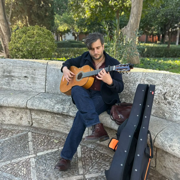
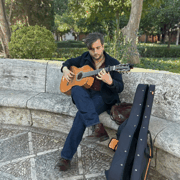
009: content truth, metadata guardrails, toolchain polish (#14)
- JSON-LD truth: analyzer is Python-only; Improspira node scoped to the
  workshop prototype so contributor credit matches the page copy; MIT
  Professional Education added to alumniOf
- Improv-partner limitations now disclose the private benchmark harness
- 404 pages: internal-nav glyph (<- not external arrow) + self-hosted Inter
- New src/content/metadata.test.ts pins canonical/sitemap/robots/og URLs to
  one origin and asserts referenced static assets exist (5 tests)
- CI e2e step uses npx playwright test (kills the double build); eslint now
  covers all .ts repo-wide plus root JS configs; sitemap drops stale lastmod
- PWA icons palette-quantized: 500KB -> 187KB (512), 79 -> 32, 70 -> 28

Gates: typecheck, lint, vitest 14, build, e2e 14. All green.

diff --git a/src/content/metadata.test.ts b/src/content/metadata.test.ts
@@ -1,0 +1,87 @@
+import { existsSync, readFileSync } from "node:fs";
+import { join } from "node:path";
+
+import { describe, expect, it } from "vitest";
+
+/**
+ * Spec 006 retargeted every crawler-facing URL to the research subdomain,
+ * but nothing enforced it: the origin string is duplicated across
+ * index.html (~20 occurrences), public/sitemap.xml, and public/robots.txt.
+ * These tests pin all of them to one canonical origin and verify every
+ * static asset the shell references actually ships in public/ — a future
+ * origin edit or asset rename that forgets a copy fails the suite instead
+ * of silently publishing divergent metadata.
+ */
+
+const root = join(__dirname, "..", "..");
+const indexHtml = readFileSync(join(root, "index.html"), "utf8");
+const robotsTxt = readFileSync(join(root, "public", "robots.txt"), "utf8");
+const sitemapXml = readFileSync(join(root, "public", "sitemap.xml"), "utf8");
+const manifest = JSON.parse(
+  readFileSync(join(root, "public", "site.webmanifest"), "utf8"),
+) as { icons?: Array<{ src: string }> };
+
+const ORIGIN = "https://research.zachscheffler.com";
+
+function attributeValues(html: string, pattern: RegExp): string[] {
+  return [...html.matchAll(pattern)]
+    .map((match) => match[1])
+    .filter((value): value is string => typeof value === "string");
+}
+
+describe("canonical origin consistency", () => {
+  it("the canonical link, sitemap loc, and robots Sitemap line share one origin", () => {
+    expect(indexHtml).toContain(`<link rel="canonical" href="${ORIGIN}/" />`);
+    expect(sitemapXml).toContain(`<loc>${ORIGIN}/</loc>`);
+    expect(robotsTxt).toContain(`Sitemap: ${ORIGIN}/sitemap.xml`);
+  });
+
+  it("og:url, og:image, and twitter:image all use the canonical origin", () => {
+    const urls = [
+      ...attributeValues(indexHtml, /property="og:url"\s+content="([^"]+)"/g),
+      ...attributeValues(indexHtml, /property="og:image"\s*content="([^"]+)"/g),
+      ...attributeValues(indexHtml, /name="twitter:image"\s*content="([^"]+)"/g),
+    ];
+
+    expect(urls.length).toBeGreaterThanOrEqual(3);
+    for (const url of urls) {
+      expect(url.startsWith(`${ORIGIN}/`)).toBe(true);
+    }
+  });
+
+  it("every absolute URL in the JSON-LD graph that points at the dossier uses the canonical origin", () => {
+    const jsonLd = indexHtml.match(/<script type="application\/ld\+json">([\s\S]*?)<\/script>/)?.[1];
+    expect(jsonLd).toBeTruthy();
+
+    const selfUrls = [...jsonLd!.matchAll(/"(?:@id|url)":\s*"(https:\/\/[^"]+)"/g)]
+      .map((match) => match[1])
+      .filter((url): url is string => typeof url === "string")
+      .filter((url) => !url.includes("github") && !url.includes("linkedin") && !url.includes("upf.edu"));
+
+    expect(selfUrls.length).toBeGreaterThanOrEqual(3);
+    for (const url of selfUrls) {
+      expect(url.startsWith(ORIGIN)).toBe(true);
+    }
+  });
+});
+
+describe("referenced static assets exist in public/", () => {
+  it("index.html root-relative link/script assets ship in public/", () => {
+    const hrefs = attributeValues(indexHtml, /(?:href|src)="(\/[^"]+)"/g).filter(
+      (href) => !href.startsWith("/src/"),
+    );
+
+    expect(hrefs.length).toBeGreaterThanOrEqual(4);
+    for (const href of hrefs) {
+      expect(existsSync(join(root, "public", href)), `missing public${href}`).toBe(true);
+    }
+  });
+
+  it("site.webmanifest icons ship in public/", () => {
+    const icons = manifest.icons ?? [];
+    expect(icons.length).toBeGreaterThanOrEqual(2);
+    for (const icon of icons) {
+      expect(existsSync(join(root, "public", icon.src)), `missing public${icon.src}`).toBe(true);
+    }
+  });
+});

diff --git a/index.html b/index.html
@@ -92,6 +92,10 @@
               {
                 "@type": "CollegeOrUniversity",
                 "name": "Grinnell College"
+              },
+              {
+                "@type": "EducationalOrganization",
+                "name": "MIT Professional Education"
               }
             ],
             "knowsAbout": [
@@ -125,7 +129,7 @@
             "name": "Session State Analyzer",
             "description": "A provenance-aware canonical model that consumes DAW adapter evidence bundles and represents production state as an interpretable graph.",
             "codeRepository": "https://github.com/ColonelKernel/session-state-analyzer",
-            "programmingLanguage": ["Python", "TypeScript"],
+            "programmingLanguage": ["Python"],
             "author": {
               "@id": "https://research.zachscheffler.com/#person"
             },
@@ -156,7 +160,7 @@
             "@type": "CreativeWork",
             "@id": "https://research.zachscheffler.com/#improspira",
             "name": "Improspira / Improv Partner",
-            "description": "A collaborative generative-harmony prototype from the MTG Generative Music AI Workshop and its subsequent research continuation.",
+            "description": "A five-day collaborative generative-harmony prototype from the MTG Generative Music AI Workshop. Its subsequent research continuation is developed independently and described on this page.",
             "contributor": [
               {
                 "@id": "https://research.zachscheffler.com/#person"

diff --git a/public/404.html b/public/404.html
@@ -7,6 +7,16 @@
     <meta name="robots" content="noindex, follow" />
     <title>Page not found — Zach Scheffler Research</title>
     <style>
+      /* Same self-hosted variable font the main site preloads, so the 404's
+         fine-grained weights (750/800) render identically off the SPA. */
+      @font-face {
+        font-family: Inter;
+        font-style: normal;
+        font-weight: 100 900;
+        font-display: swap;
+        src: url("/fonts/InterVariable.woff2") format("woff2");
+      }
+
       :root {
         color-scheme: dark;
         --paper: #f2f1eb;
@@ -125,7 +135,8 @@
         The requested route belonged to an earlier version of the site. The current dossier focuses on
         DAW state, intelligent music production, and human–AI performance systems.
       </p>
-      <a class="button" href="/">Return home to the research dossier <span aria-hidden="true">↗</span></a>
+      <!-- Internal link: the site reserves ↗ for external destinations. -->
+      <a class="button" href="/">Return home to the research dossier <span aria-hidden="true">←</span></a>
     </main>
   </body>
 </html>

diff --git a/src/content/research.ts b/src/content/research.ts
@@ -321,6 +321,7 @@ export const caseStudies: ResearchCaseStudy[] = [
       "Real-instrument evaluation, studies with musicians, and end-to-end Ableton Live runtime validation remain pending.",
       "The current evaluation concerns symbolic transitions and synthesized acceptance, not reactive listening to a live performer.",
       "Workshop materials describe inconsistent dataset provenance and chord-vocabulary counts, so those details are not presented as validated findings here.",
+      "The benchmark harness and held-out results are not yet published in a public repository, so the figures above cannot currently be independently verified.",
     ],
     nextStep:
       "Evaluate latency, controllability, and perceived usefulness with live instruments and musicians, while comparing interpretable baselines with learned alternatives.",

diff --git a/eslint.config.js b/eslint.config.js
@@ -35,7 +35,21 @@ export default tseslint.config(
   },
   {
     extends: [js.configs.recommended, ...tseslint.configs.recommended],
-    files: ["*.config.ts", "tests/**/*.ts"],
+    // Catch-all for TS outside src/ (configs, tests, future scripts) so a
+    // new file can't silently escape linting; src/ keeps its own block with
+    // browser globals and the React plugins.
+    files: ["**/*.ts"],
+    ignores: ["src/**"],
+    languageOptions: {
+      ecmaVersion: 2022,
+      globals: globals.node,
+    },
+  },
+  {
+    // Root JS/CJS config files previously matched no block and were linted
+    // with zero rules.
+    extends: [js.configs.recommended],
+    files: ["**/*.{js,cjs,mjs}"],
     languageOptions: {
       ecmaVersion: 2022,
       globals: globals.node,

diff --git a/src/pages/NotFound.tsx b/src/pages/NotFound.tsx
@@ -10,8 +10,9 @@ const NotFound = () => (
         The requested route belonged to an earlier version of the site. The current dossier focuses on
         DAW state, intelligent music production, and human–AI performance systems.
       </p>
+      {/* Internal link: the site reserves ↗ for external destinations. */}
       <a className="button button--light" href="/">
-        Return home to the research dossier <span aria-hidden="true">↗</span>
+        Return home to the research dossier <span aria-hidden="true">←</span>
       </a>
     </div>
   </main>

diff --git a/specs/009-content-truth-and-metadata-polish/spec.md b/specs/009-content-truth-and-metadata-polish/spec.md
@@ -1,0 +1,43 @@
+# Spec 009 — Content truth and metadata polish
+
+## Context
+
+A 27-agent adversarially-verified audit of the merged specs 004–008 tree
+(2026-07-17) confirmed a set of small correctness and guardrail gaps. This
+spec closes every item that does not require account-level action.
+
+## Functional requirements
+
+- **FR-1 (JSON-LD truth)**: the Session State Analyzer node claims only
+  Python (the repo is 100% Python); the Improspira node's description is
+  scoped to the five-day workshop prototype so its contributor list matches
+  the page copy's attribution discipline; `alumniOf` includes MIT
+  Professional Education, which the content model and About copy feature.
+- **FR-2 (metric verifiability)**: the improv-partner case study discloses
+  that its benchmark harness and held-out results are not yet public, so a
+  reviewer knows the figures cannot currently be independently verified.
+- **FR-3 (404 parity)**: both 404 implementations use an internal-navigation
+  glyph (← not ↗) and load the same self-hosted Inter variable font as the
+  main site.
+- **FR-4 (metadata guardrails)**: a new `src/content/metadata.test.ts`
+  (inside the vitest glob) pins the canonical link, sitemap `<loc>`, robots
+  `Sitemap:` line, og/twitter image URLs, and dossier-self JSON-LD URLs to
+  one origin, and asserts every static asset referenced by index.html and
+  site.webmanifest exists in `public/`.
+- **FR-5 (toolchain)**: CI runs `npx playwright test` so the `pree2e` hook
+  does not rebuild the site a second time; eslint covers all `.ts` files
+  repo-wide plus root JS/CJS configs; `sitemap.xml` drops its hardcoded
+  (already stale) `<lastmod>`.
+- **FR-6 (asset weight)**: the three PWA icons are palette-quantized
+  (icon-512 500 KB → 187 KB) with no visible quality change at icon sizes.
+
+## Out of scope
+
+- Making `ColonelKernel/ArrangementArchitect` public (account-level, human
+  action; the dossier's link is correct once the repo is public).
+- Publishing the improv-partner benchmark harness (owner decision).
+
+## Acceptance criteria
+
+All quality gates green: `npm run typecheck && npm run lint && npm test &&
+npm run build && npm run e2e`, with the new metadata tests passing.
